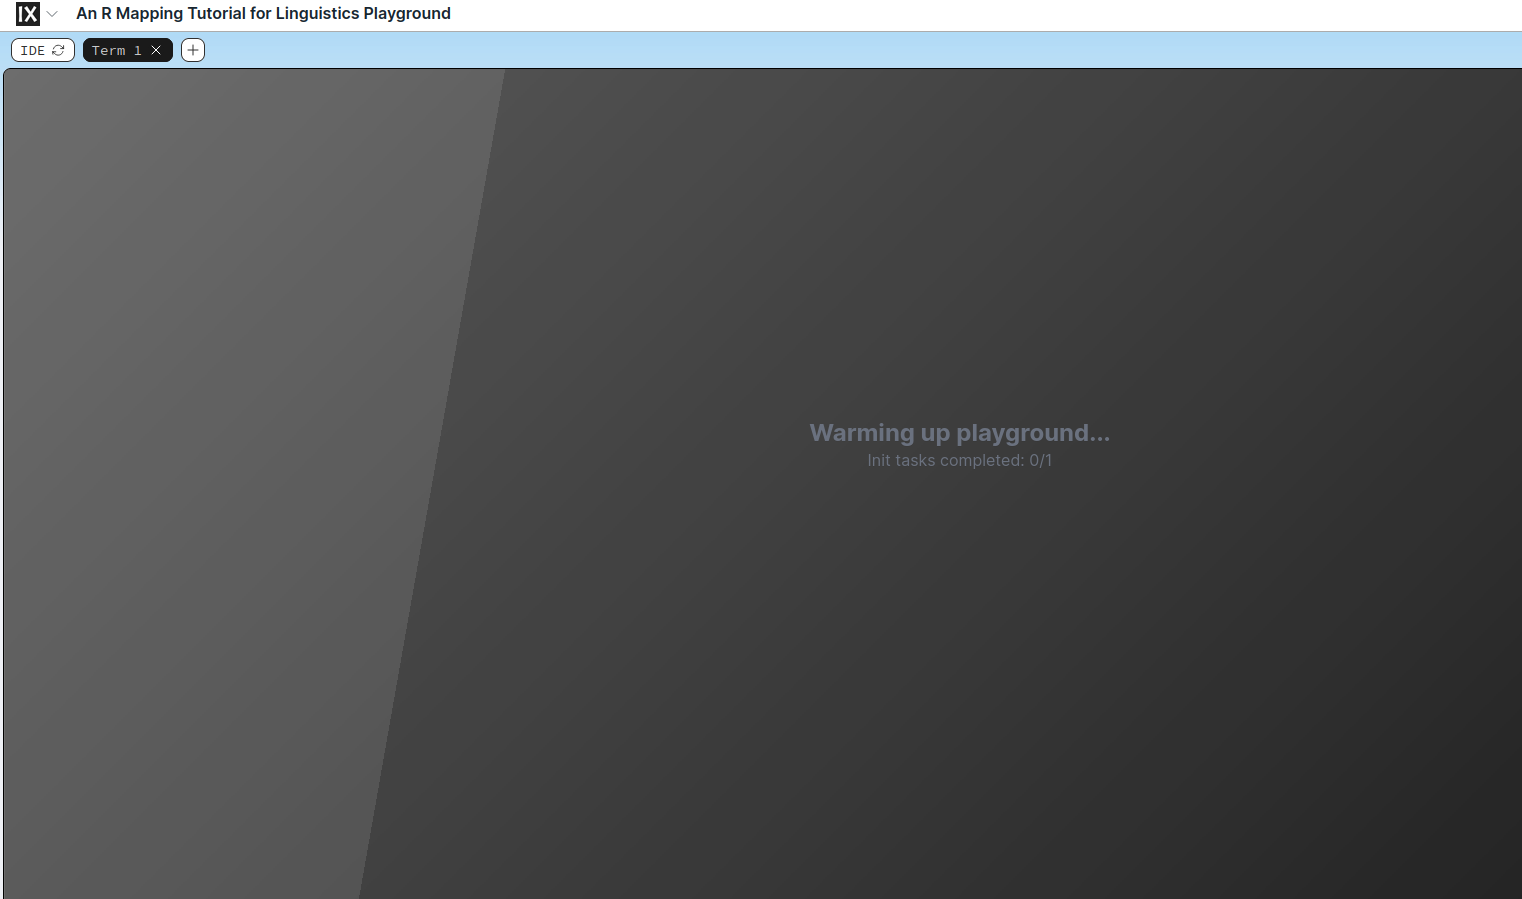
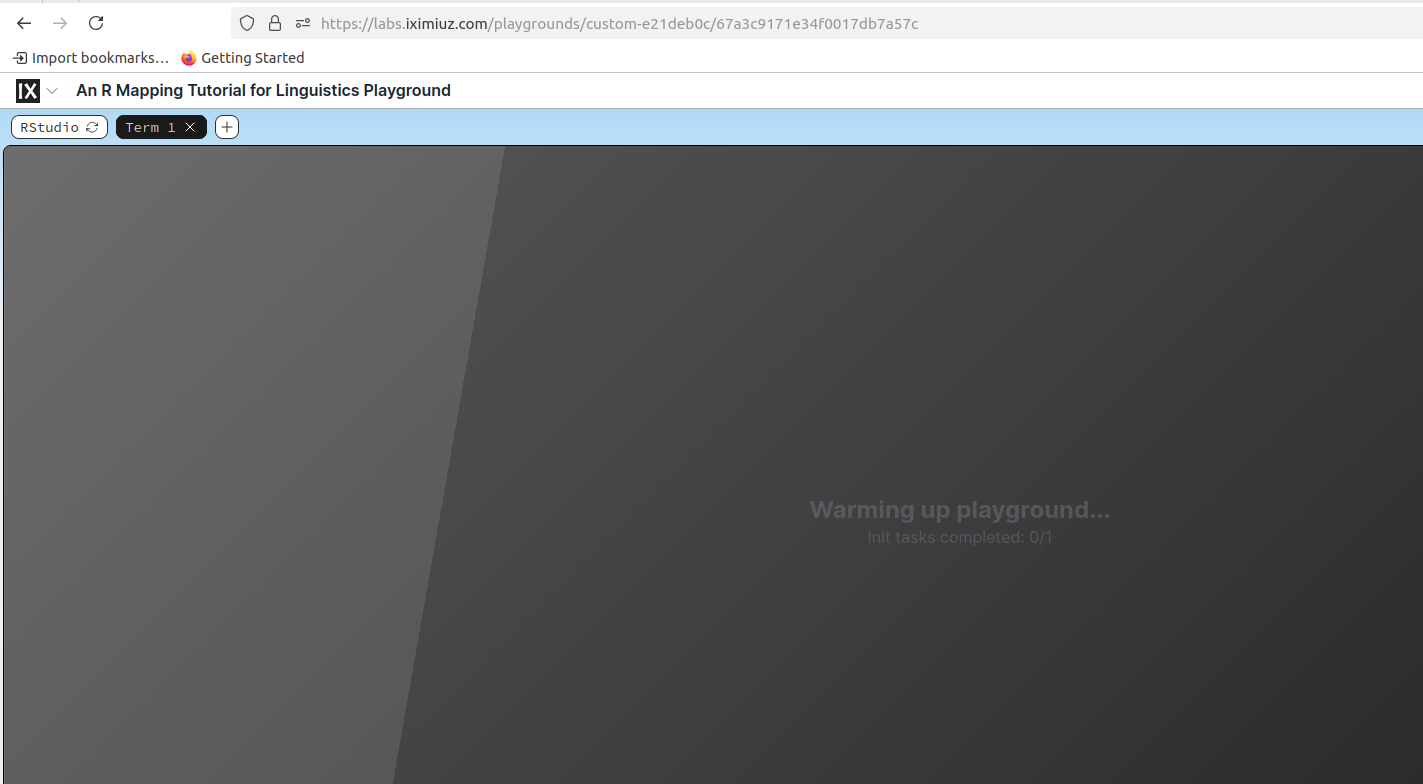
update description for iximiuz playground

Changed region(s): [[0.0, 0.0, 1.0, 0.2143], [0.5566, 0.6429, 0.773, 0.7041], [0.5257, 0.4592, 0.7112, 0.5204]]

diff --git a/README.md b/README.md
@@ -39,28 +39,29 @@ After that's running, you should be able to open http://localhost:8787 in your b
 
 ## Running the tutorial
 
-If you don't feel like messing around with specific versions of R and dependencies, there's a fully configured playgroun at [labs.iximuz.com](https://labs.iximiuz.com/playgrounds/custom-e21deb0c) that you can use. All you need is a web browser!
+If you don't feel like messing around with specific versions of R and dependencies, there's a fully configured playground at [labs.iximuz.com](https://labs.iximiuz.com/playgrounds/custom-e21deb0c) that you can use. All you need is a web browser!
 
 > You'll need a GitHub username to log in, so if you don't have that, [sign up first](https://github.com/).
+
 1. Navigate to https://labs.iximiuz.com/playgrounds/custom-e21deb0c and start the playground.
 
 2. You'll probably need to wait for about 4-5 minutes for the system to get set up (it's pulling a container image, which is what takes the longest). Compared to fighting R dependencies, you might find this much faster/easier.
 
-![playground warming up](https://github.com/danaroemling/mapping-for-linguists/blob/main/playground_warming_up.png)
+![playground warming up](playground_warming_up.png)
 
-3. Once the terminal prompt shows up, just click the button in the upper right that has an arrow popping up and to the right (that's the button to expose a port).
+3. Once the terminal prompt shows up, You can click on the "Rstudio" tab.
 
-![port expose icon](https://github.com/danaroemling/mapping-for-linguists/blob/main/expose_port_icon.png)
+![playgroun_ready](playground_ready.png)
 
-4. When the dialogue window opens up, enter 8787 into the window and click to generate a link.
+4. Click on the link and a new window will open up to log into Rstudio. The username is "rstudio" and the password is "mappingForLinguists" (case sensitive).
 
-![expose a port](https://github.com/danaroemling/mapping-for-linguists/blob/main/expose_a_port.png)
+![rstudio login page](rstudio_login_screen.png)
 
-4. Click on the link and a new window will open up to log into Rstudio. The username is "rstudio" and the password is "rstudio".
+5. You'll then have a nice fresh Rstudio environment to use for the tutorial.
 
-![rstudio is running](https://github.com/danaroemling/mapping-for-linguists/blob/main/rstudio_is_running.png)
+![rstudio is ready](rstudio_is_ready.png)
 
-5. Follow the tutorial, and have fun!
+6. Follow the tutorial, and have fun!
 
 
 ## Reproducible environment 
